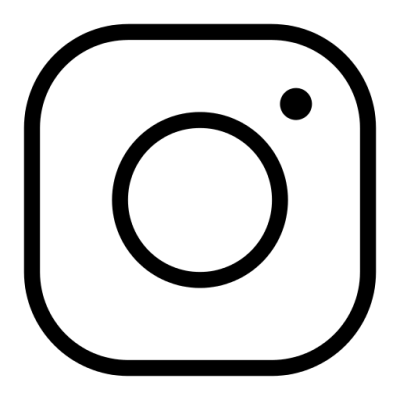
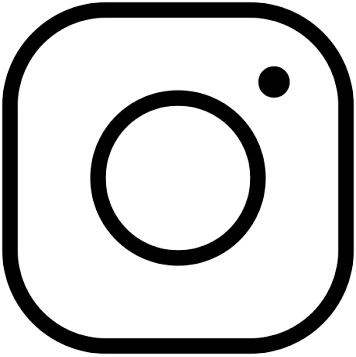
Added pages/routing and image gallery placeholder

diff --git a/src/components/Sidebar.vue b/src/components/Sidebar.vue
@@ -1,25 +1,26 @@
 <script setup>
+import { RouterLink } from 'vue-router';
 import Headshot from './Headshot.vue';
 </script>
 
 <template>
-    <div class="flex flex-col items-center gap-3 p-10 w-[20svw] h-screen border-r-2 border-gray-700 bg-slate-900 ">
+    <div class="flex flex-col items-center gap-3 p-10 w-[23svw] min-w-[280px] min-h-[650px] h-screen border-r-2 border-gray-700 bg-slate-900 ">
         <span id="blur">
             <div id="blob"></div>
         </span>
         <Headshot/>
-        <h1 class="text-3xl font-bold">Barrett Reinhard</h1>
+        <h1 class="text-3xl font-bold text-nowrap">Barrett Reinhard</h1>
 
-        <div class="flex flex-col items-center gap-5 mt-16 text-2xl">
-            <span class="spin ">About</span>
-            <span class="spin ">Work</span>
-            <span class="spin ">Contact</span>
+        <div class="flex flex-col items-center gap-5 mt-[20%] text-2xl">
+            <router-link to="/" class="spin ">About</router-link>
+            <router-link to="/work" class="spin ">Work</router-link>
+            <router-link to="/contact" class="spin ">Contact</router-link>
         </div>
 
         <div class="flex gap-7 mt-auto">
             <a class="" href="https://github.com/BarrettWR"><img class="icon spin " src="../assets/github.png" alt=""></a>
             <a class="" href="https://www.instagram.com/reinhardbarrett/"><img class="icon spin  invert" src="../assets/insta.png" alt=""></a>
-            <a class="" href="https://www.linkedin.com/in/barrett-reinhard-24a86314a/"><img class="icon spin  scale-[1.05]" src="../assets/linkedin.png" alt=""></a>
+            <a class="" href="https://www.linkedin.com/in/barrett-reinhard-24a86314a/"><img class="icon spin" src="../assets/linkedin.png" alt=""></a>
         </div>
 
         
@@ -61,7 +62,7 @@ img {
 }
 
 .icon {
-    width: 40px;
+    width: 35px;
     height: auto;
 }
 
@@ -69,6 +70,7 @@ img {
     z-index: 0;
     background-color: white;
     height: 16vmax;
+    min-height: 220px;
     aspect-ratio: 1;
     position: absolute;
     left: 50%;

diff --git a/src/views/Work.vue b/src/views/Work.vue
@@ -1,0 +1,59 @@
+<script setup>
+import { ref } from 'vue'
+import Sidebar from '../components/Sidebar.vue'
+import Topbar from '../components/Topbar.vue'
+import VueGallery from 'vue-gallery'
+
+let images = ref([
+  'https://dummyimage.com/800/ffffff/000000',
+  'https://dummyimage.com/1600/ffffff/000000',
+  'https://dummyimage.com/1280/000000/ffffff',
+  'https://dummyimage.com/400/000000/ffffff',
+  'https://dummyimage.com/800/ffffff/000000',
+  'https://dummyimage.com/1600/ffffff/000000',
+  'https://dummyimage.com/1280/000000/ffffff',
+  'https://dummyimage.com/400/000000/ffffff',
+  'https://dummyimage.com/800/ffffff/000000',
+  'https://dummyimage.com/1600/ffffff/000000',
+  'https://dummyimage.com/1280/000000/ffffff',
+  'https://dummyimage.com/400/000000/ffffff',
+  'https://dummyimage.com/800/ffffff/000000',
+  'https://dummyimage.com/1600/ffffff/000000',
+  'https://dummyimage.com/1280/000000/ffffff',
+])
+
+let index = ref(null)
+
+</script>
+
+<template>
+    <div class="flex flex-col max-w-[77%]"> 
+        <Topbar>
+            <template #title>Work</template>
+        </Topbar>
+        <div class="max-w-[100%] h-[80svh] overflow-y-scroll p-20">
+            <div class="flex flex-wrap max-w-[100%]">
+                <VueGallery :images="images" :index="index" @close="index = null"></VueGallery>
+                <div
+                    class="image"
+                    v-for="(image, imageIndex) in images"
+                    :key="imageIndex"
+                    @click="index = imageIndex"
+                    :style="{ backgroundImage: 'url(' + image + ')', width: '350px', height: '200px' }"
+                ></div>
+            </div>
+        </div>
+    </div>
+
+</template>
+
+<style scoped>
+  .image {
+    float: left;
+    background-size: cover;
+    background-repeat: no-repeat;
+    background-position: center center;
+    border: 1px solid #ebebeb;
+    margin: 10px;
+  }
+</style>

diff --git a/src/App.vue b/src/App.vue
@@ -1,14 +1,32 @@
 <script setup>
 import { RouterLink, RouterView } from 'vue-router'
+import Sidebar from './components/Sidebar.vue';
 
 
 </script>
 
 <template>
-    <RouterView></RouterView>
+    <div class="flex flex-row w-[100svw]">
+        <Sidebar/>
+        <router-view class="flex grow" v-slot="{ Component }">
+            <transition name="slide" mode="out-in">
+                <component :is="Component" />
+            </transition>
+        </router-view>
+    </div>
 </template>
 
 <style scoped>
 
+.slide-enter-active,
+.slide-leave-active {
+  transition: all 0.3s ease-in-out;
+}
 
+.slide-enter-from,
+.slide-leave-to {
+    position: relative;
+    translate: 0px 30px;
+    opacity: 0;
+}
 </style>

diff --git a/src/views/About.vue b/src/views/About.vue
@@ -1,0 +1,18 @@
+<script setup>
+import Sidebar from '../components/Sidebar.vue'
+import Topbar from '../components/Topbar.vue'
+</script>
+
+<template>
+    <div class="flex flex-col max-w-[77%]">
+        <Topbar>
+            <template #title>About</template>
+        </Topbar>
+    
+        <div class="p-[100px] max-w-[100%]">
+            <p class=""> Lorem ipsum, dolor sit amet consectetur adipisicing elit. Iusto temporibus incidunt dolorum eius blanditiis, dolor alias doloribus eum minima quisquam cum expedita repellat atque fugit. Expedita voluptatem numquam cumque odit! </p>
+        </div>
+    </div>
+ 
+
+</template>

diff --git a/src/router/index.js b/src/router/index.js
@@ -1,13 +1,22 @@
 import { createRouter, createWebHistory } from 'vue-router'
-import Home from '../views/Home.vue'
+import About from '../views/About.vue'
+import Work from '../views/Work.vue'
+import Contact from '../views/Contact.vue'
 
 const router = createRouter({
   history: createWebHistory(import.meta.env.BASE_URL),
   routes: [
     {
       path: '/',
-      name: 'home',
-      component: Home
+      component: About
+    },
+    {
+      path: '/work',
+      component: Work
+    },
+    {
+      path: '/contact',
+      component: Contact
     }
   ]
 })

diff --git a/src/views/Contact.vue b/src/views/Contact.vue
@@ -1,0 +1,16 @@
+<script setup>
+import Sidebar from '../components/Sidebar.vue'
+import Topbar from '../components/Topbar.vue'
+</script>
+
+<template>
+    <div class="flex flex-col max-w-[77%]">
+        <Topbar>
+            <template #title>Contact</template>
+        </Topbar>
+
+        <div class="p-[100px] max-w-[100%]">
+            <p class=""> Lorem ipsum, dolor sit amet consectetur adipisivoluptatem numquam cumque odit! </p>
+        </div>
+    </div>
+</template>

diff --git a/src/components/Topbar.vue b/src/components/Topbar.vue
@@ -1,0 +1,14 @@
+<script setup>
+
+
+</script>
+
+<template>
+        <div class="flex flex-row"> 
+            <div class="flex grow p-[100px] pb-5 w-[100%] border-b-2 border-gray-700">
+                <h1 class="text-5xl p-1">
+                    <slot name="title"></slot>
+                </h1>
+            </div>
+        </div>
+</template>
